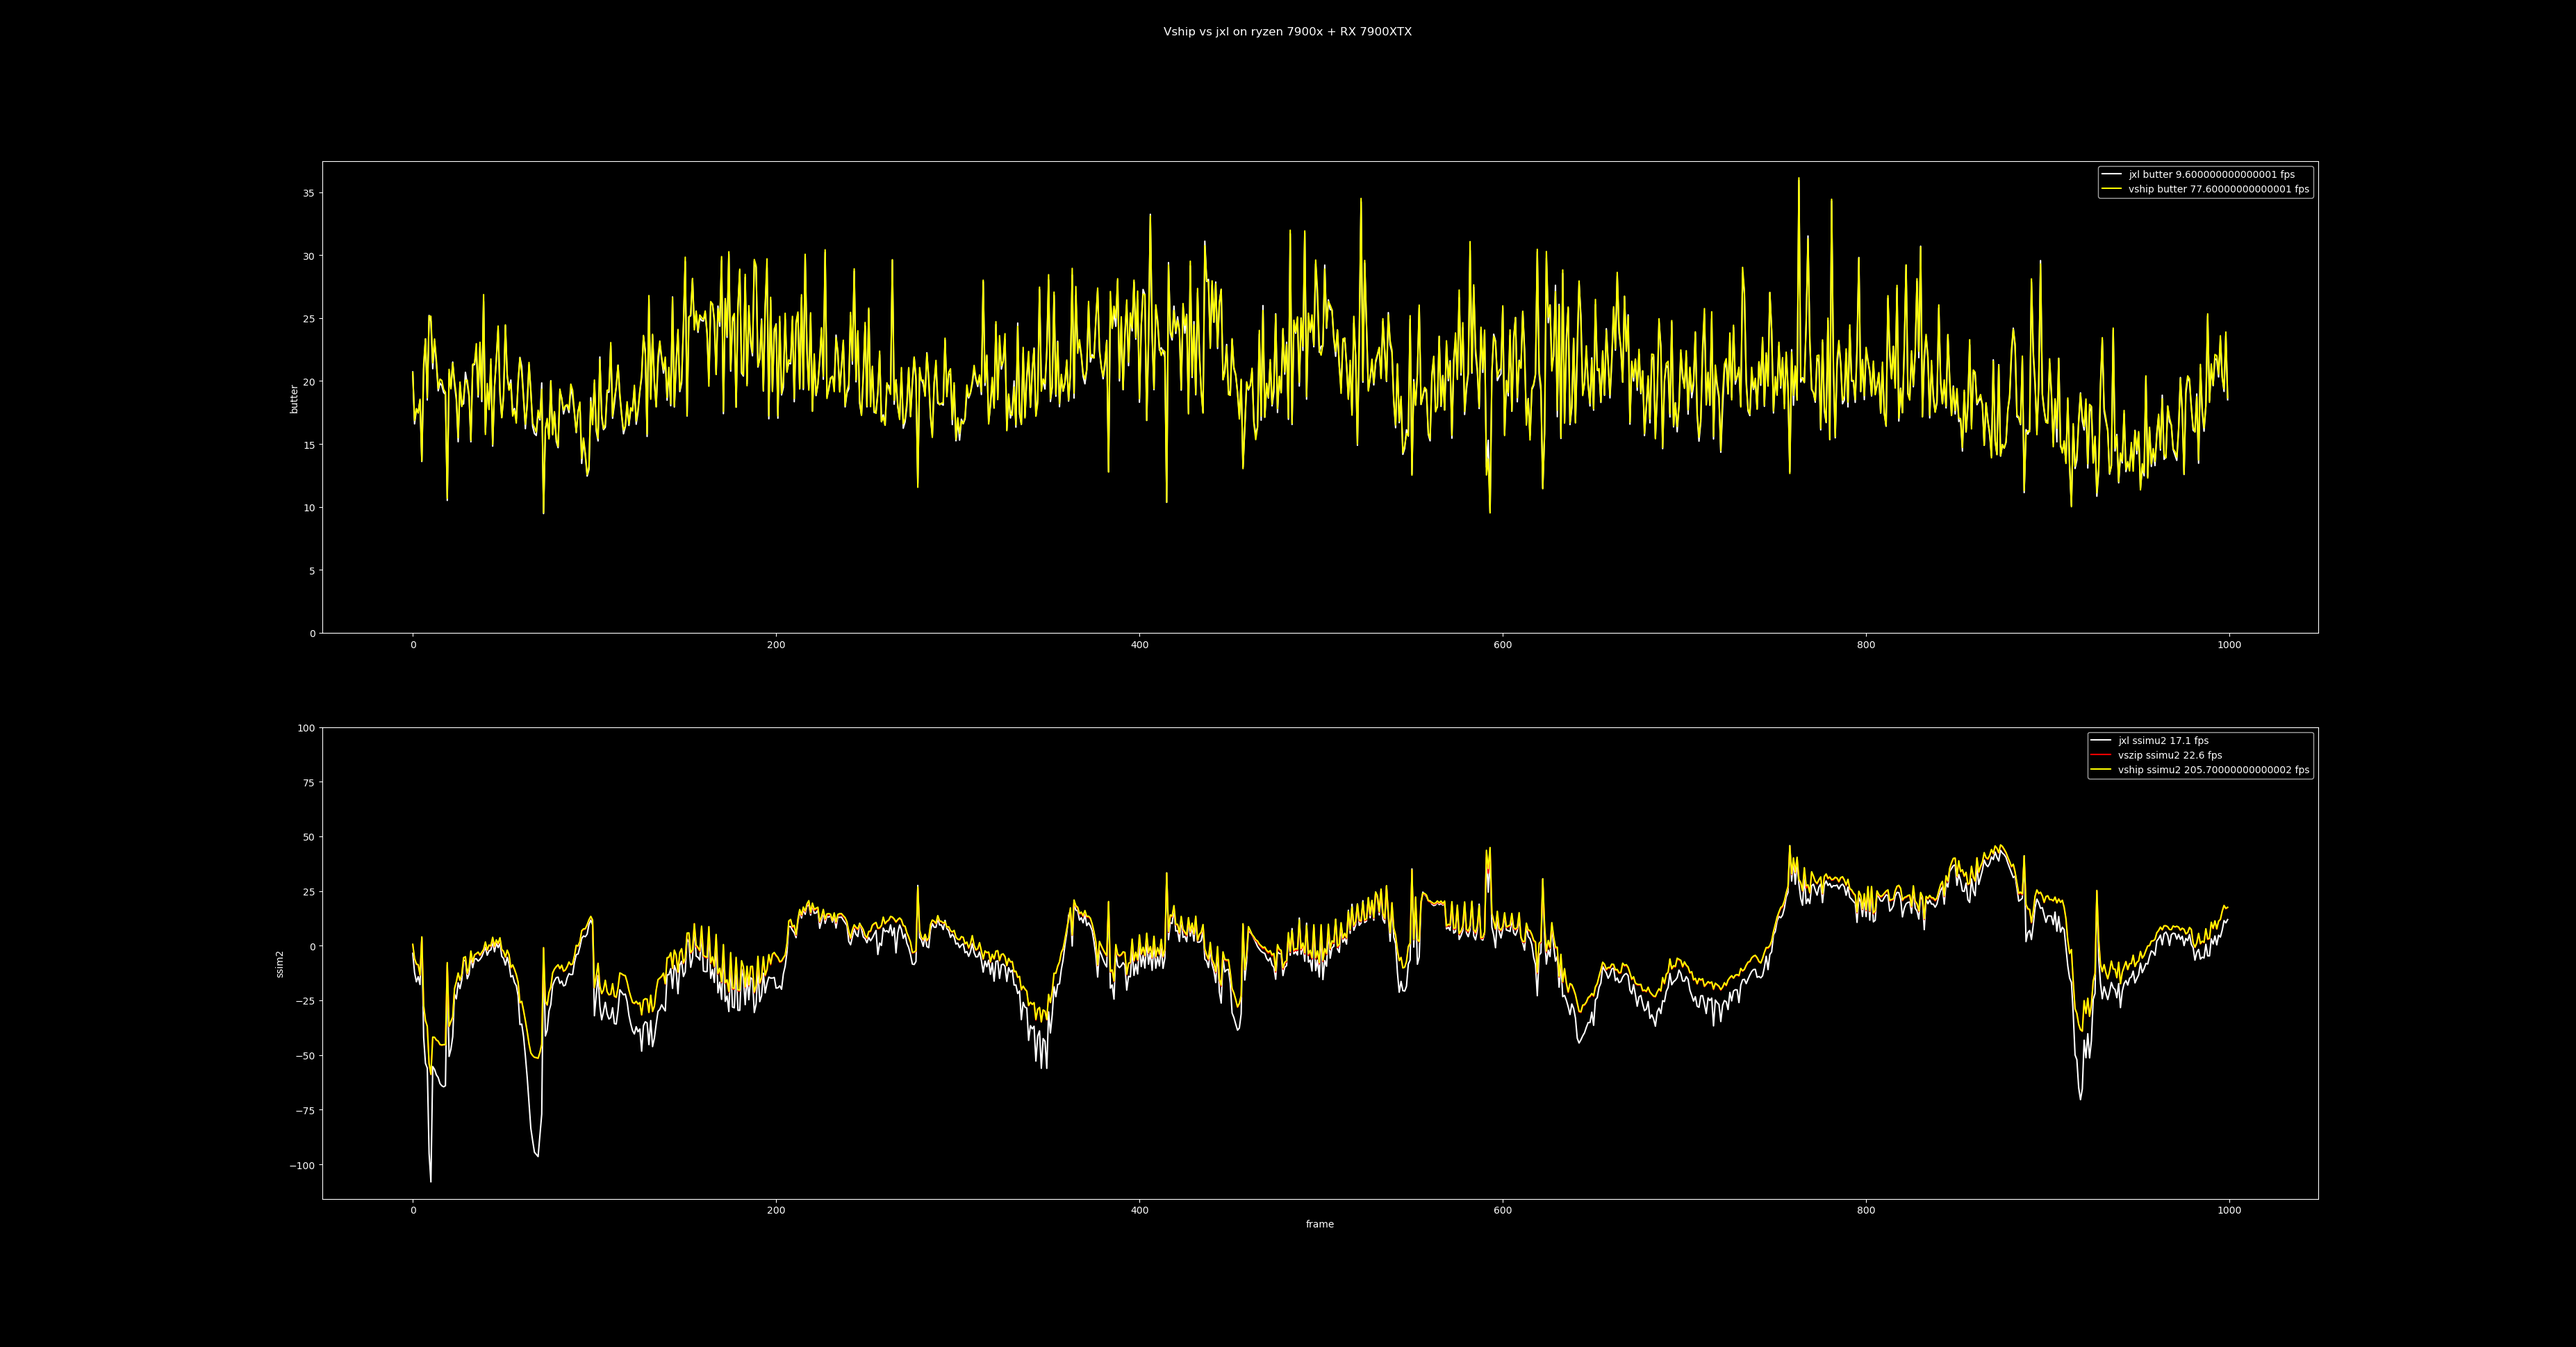
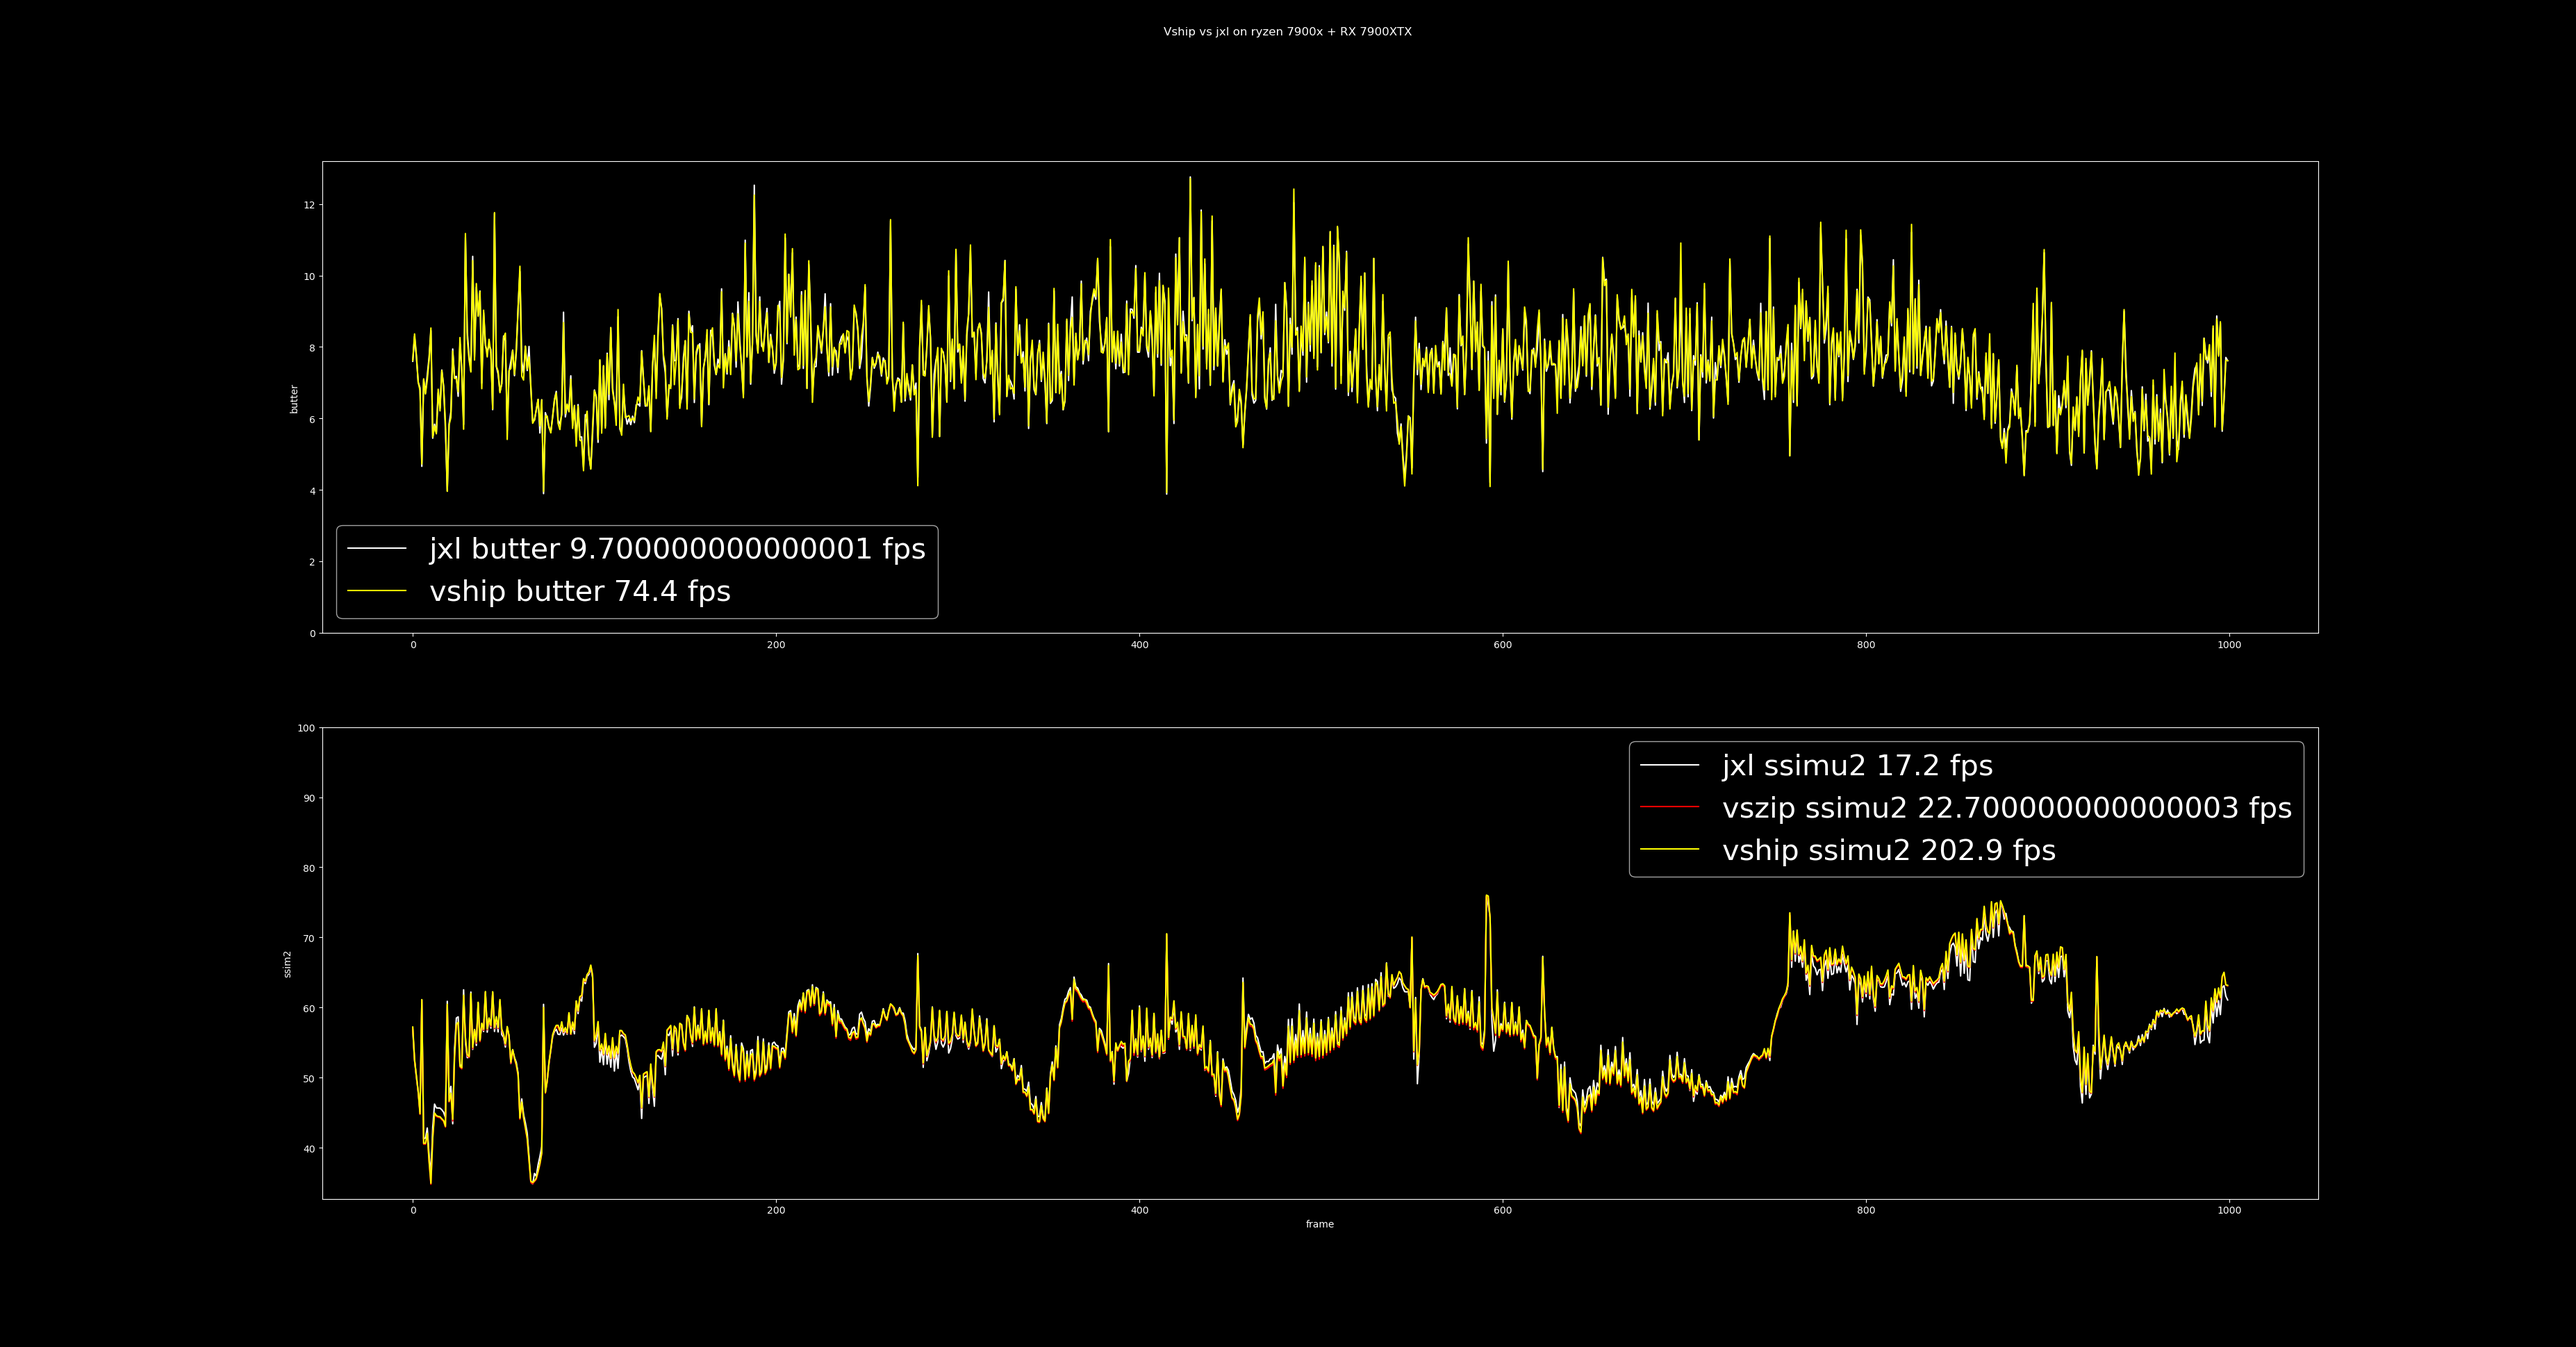
fixed font size and readme note

diff --git a/README.md b/README.md
@@ -47,7 +47,7 @@ for amd cards:
 to install: either use the dll or:
 `make install`
 
-# Performance on my laptop on some clip:
+# Performance on my desktop on some clip:
 
 ![comparison](Images/vshipjxl.png)
 
